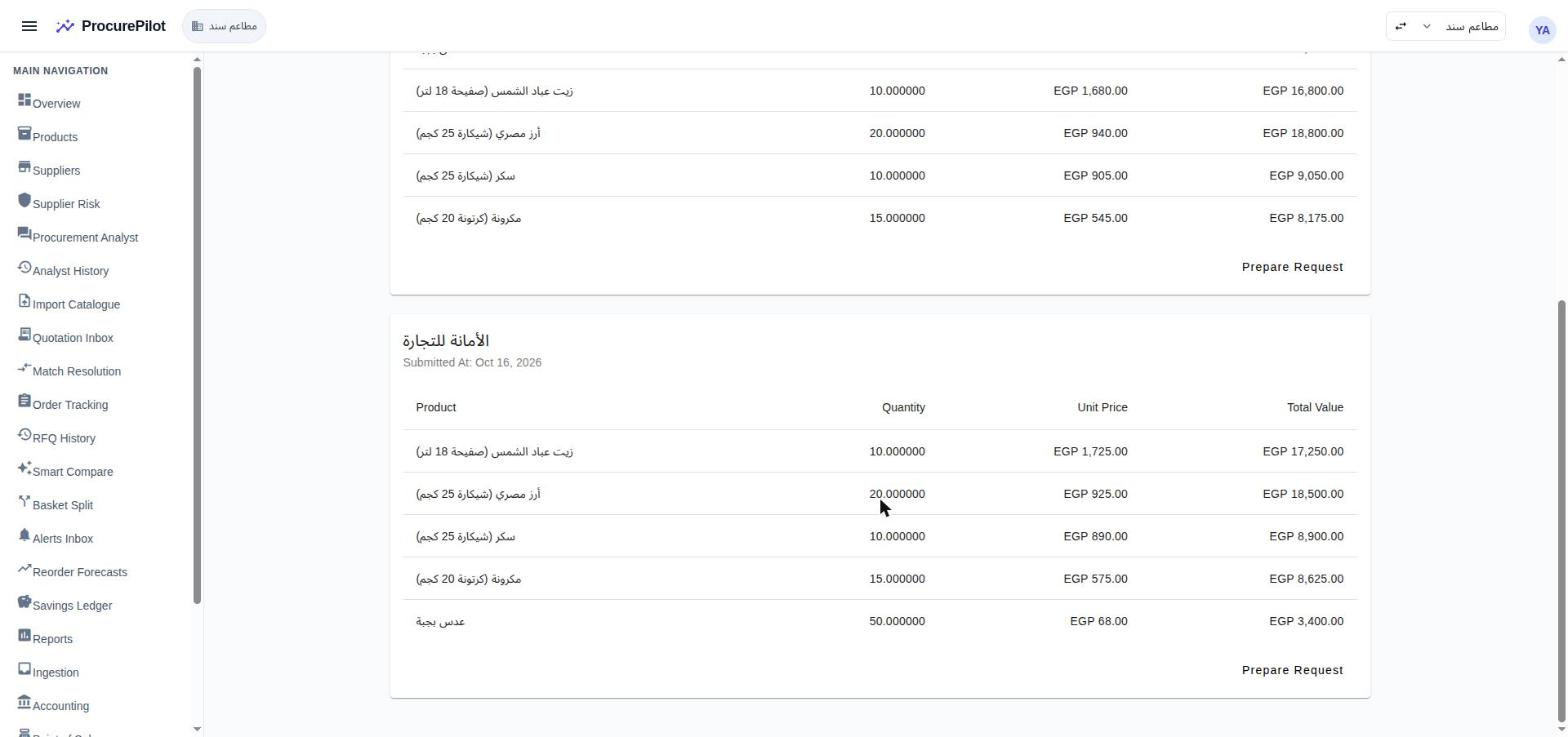
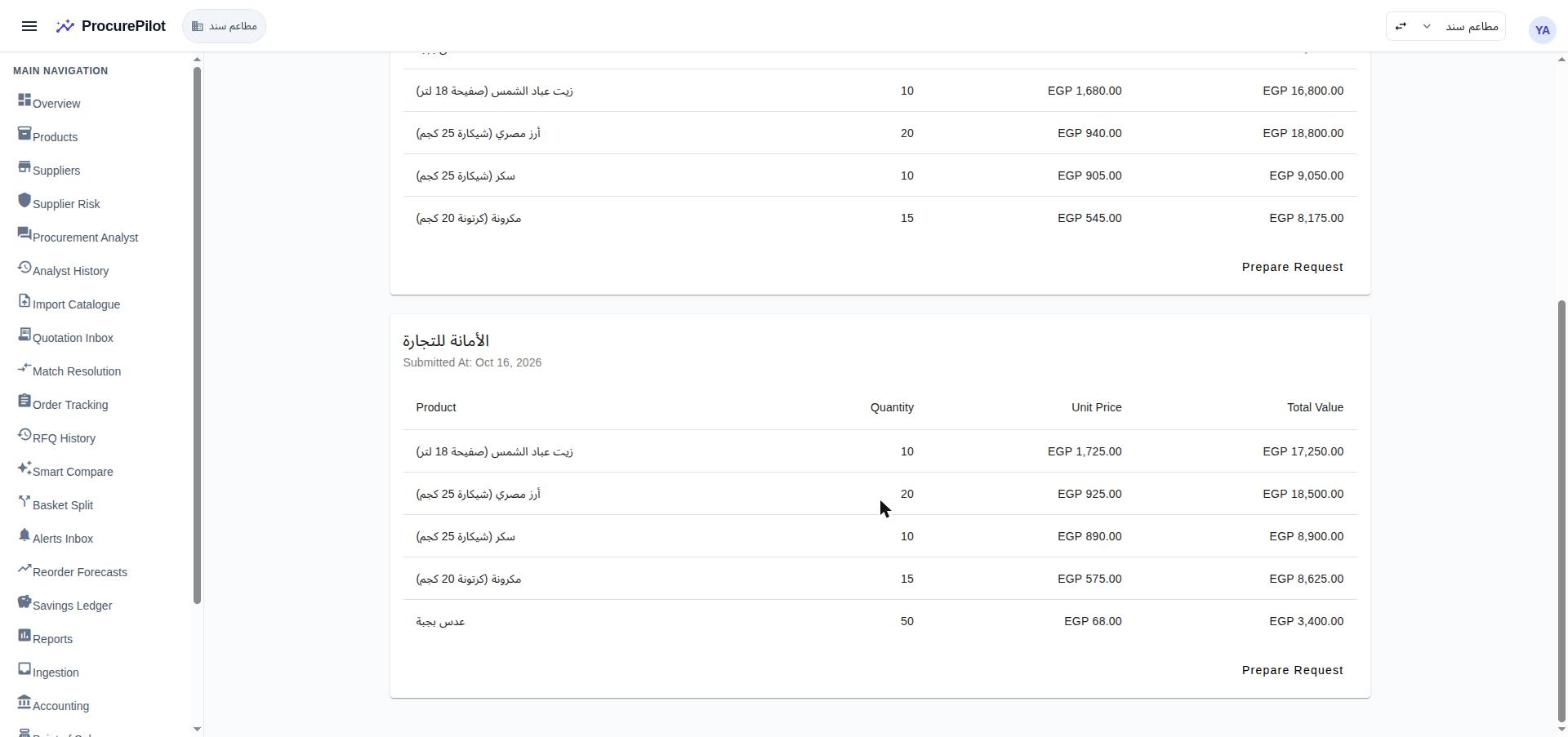
docs(gtm): retake RFQ compare screenshots after #128; add basket split input

diff --git a/docs/gtm/demo-tenant/round-1/README.md b/docs/gtm/demo-tenant/round-1/README.md
@@ -5,7 +5,8 @@ The first full purchasing round run through the real product on hosted
 `pp-owner`. Dataset and findings: [`../README.md`](../README.md). Video status:
 [`../../video/production-tracker.md`](../../video/production-tracker.md).
 
-Screenshots were taken from the live demo tenant on 2026-10-18, after PRs #108–#112 were deployed.
+Screenshots were taken from the live demo tenant on 2026-10-18, after PRs #108–#112 were deployed;
+screenshots 02, 03 and 07 were retaken after #128 deployed (quantities without trailing zeros, per-pack PO prices).
 They show the product as it is, including the open label issues listed at the end.
 
 ## The round in one line
@@ -84,6 +85,9 @@ create. The PO is a draft until submitted; ProcurePilot never writes back to sup
 
 Basket Split with الأمانة and النور, the five lines in packs (lentils 50, oil 10, rice 20, sugar 10,
 pasta 15). The optimiser on hosted completed the job (2511bb47) in about 2 seconds:
+
+![Basket Split: الأمانة and النور, five lines in packs](09-basket-split-input.jpg)
+
 
 | Supplier | Lines | Landed cost (EGP) |
 |---|---|---|
